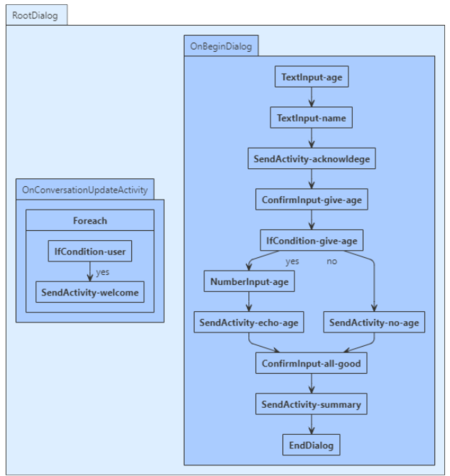
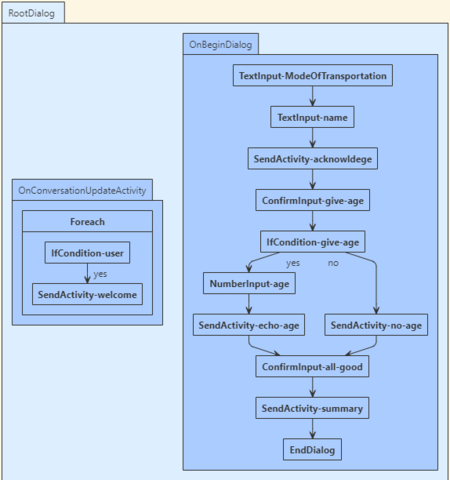
Fixed code snippets links and images.

Changed region(s): [[0.0, 0.0, 1.0, 1.0]]

diff --git a/articles/v4sdk/bot-builder-dialogs-adaptive.md b/articles/v4sdk/bot-builder-dialogs-adaptive.md
@@ -61,11 +61,11 @@ The bot interacts with the user via a root adaptive dialog. The bot then uses th
 
 ![Root dialog](media/bot-builder-root-dialog-adaptive.png)
 
-**Bots\DialogBot.cs**
+**Dialogs\RootDialog.cs**
 
 The code begins by instantiating the root adaptive dialog. At this time, the following `WelcomeUserSteps` and `OnBeginDialogSteps` are added to the dialog. Notice the `paths` definition referencing the `Dialogs\RootDialog.lg` file that contains the LG templates used in the creation of the adaptive dialog.
 
-[!code-csharp[define dialog snippet](~/../botbuilder-samples/samples/csharp_dotnetcore/adaptive-dialog/01.multi-turn-prompt/Bots/DialogBot.cs?range=41-62&highlight=4)]
+[!code-csharp[define dialog snippet](~/../botbuilder-samples/samples/csharp_dotnetcore/adaptive-dialog/01.multi-turn-prompt/Dialogs/RootDialog.cs?range=17-38&highlight=3-4,21)]
 
 Notice also:
 
@@ -79,13 +79,15 @@ In `WelcomeUserSteps` method provides the actions to perform when the trigger fi
 > Some channels send two conversation update events: one for the bot added to the conversation and another for the user.
 > The code filters cases where the bot itself is the recipient of the message. For more information, see [Categorized activities by channel](https://docs.microsoft.com/azure/bot-service/bot-service-channels-reference?view=azure-bot-service-4.0#welcome).
 
-[!code-csharp[Welcome user](~/../botbuilder-samples/samples/csharp_dotnetcore/adaptive-dialog/01.multi-turn-prompt/Bots/DialogBot.cs?range=73-97)]
+[!code-csharp[Welcome user](~/../botbuilder-samples/samples/csharp_dotnetcore/adaptive-dialog/01.multi-turn-prompt/Dialogs/RootDialog.cs?range=43-64)]
 
-The `OnBeginDialogSteps` implements the **steps** that the dialog uses. It defines the prompts using the LG templates from the `RootDialog.lg` file. The code below shows how the `Name` prompt is created.
+The `GatherUserInformation` implements the **steps** that the dialog uses. It defines the prompts using the LG templates from the `RootDialog.lg` file. The code below shows how the `Name` prompt is created.
+
+[!code-csharp[gather user information](~/../botbuilder-samples/samples/csharp_dotnetcore/adaptive-dialog/01.multi-turn-prompt/Dialogs/RootDialog.cs?range=66-133)]
 
 The `IfCondition` action uses an adaptive expression to either ask the user for their age or send an acknowledgement message, depending on their response to the previous question. Again it uses LG templates to format the prompts and messages.
 
-[!code-csharp[On begin dialog](~/../botbuilder-samples/samples/csharp_dotnetcore/adaptive-dialog/01.multi-turn-prompt/Bots/DialogBot.cs?range=99-163)]
+[!code-csharp[if condition](~/../botbuilder-samples/samples/csharp_dotnetcore/adaptive-dialog/01.multi-turn-prompt/Dialogs/RootDialog.cs?range=26-54)]
 
 # [JavaScript](#tab/javascript)
 
@@ -152,7 +154,7 @@ Listen for incoming requests and route the message to the bot's main handler.
 The `DialogManager.OnTurnAsync` runs the adaptive dialog with activities.
 The implementation shown can run any type of `Dialog`. The `ConversationState` is used by the Dialog system. The `UserState` isn't, however, it might have been used in a dialog implementation. The `DialogManager.OnTurnAsync` method takes care of saving the state.
 
-[!code-csharp[Dialogs](~/../botbuilder-samples/samples/csharp_dotnetcore/adaptive-dialog/01.multi-turn-prompt/Bots/DialogBot.cs?range=67-71&highlight=4)]
+[!code-csharp[Dialogs](~/../botbuilder-samples/samples/csharp_dotnetcore/adaptive-dialog/01.multi-turn-prompt/Bots/DialogBot.cs?range=30-34&highlight=4)]
 
 # [JavaScript](#tab/javascript)
 

diff --git a/art-source/nomnoml/01.multi-turn-prompt-adaptive.md b/art-source/nomnoml/01.multi-turn-prompt-adaptive.md
@@ -26,7 +26,7 @@ HowTo \ Develop \ **Create a bot using adaptive dialogs**.
 ]
 ]
 [<package> OnBeginDialog |
-[TextInput-age]->[TextInput-name]
+[TextInput-ModeOfTransportation]->[TextInput-name]
 [TextInput-name]->[SendActivity-acknowldege]
 [SendActivity-acknowldege]->[ConfirmInput-give-age]
 [ConfirmInput-give-age]->[IfCondition-give-age]
